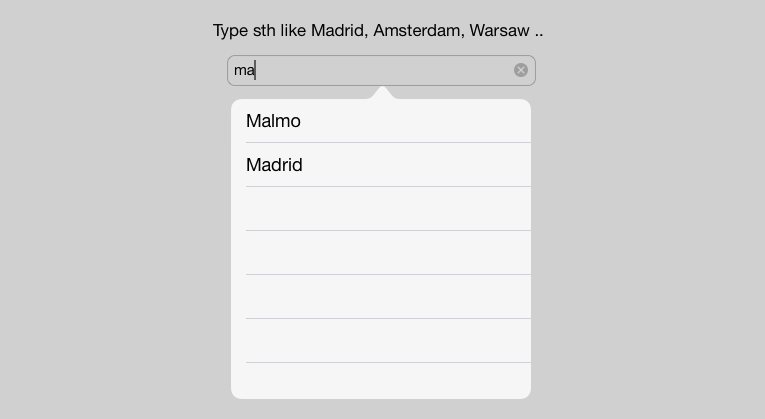
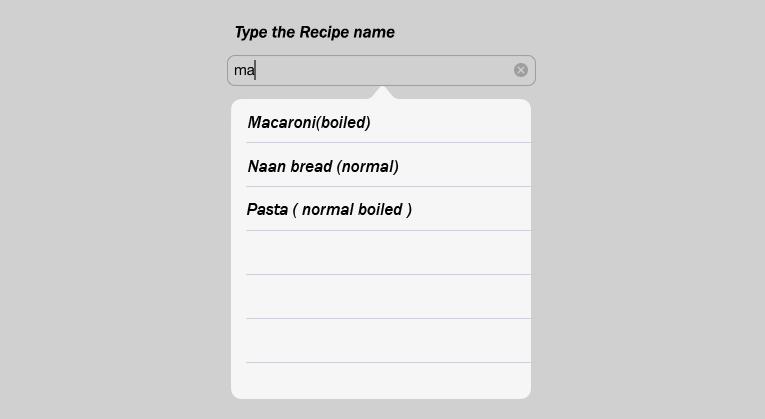
updated
updated

diff --git a/SuggestiveTextField-master/README.md b/SuggestiveTextField-master/README.md
@@ -1,11 +1,11 @@
-##SuggestiveTextField for iPad
+##SuggestiveTextField for IPhone,IPad
 
 
 * It's a `UITextfield` subclass that presents suggestions based on user input.
 * Suggestions are being displayes in a `UIPopoverController`.
 
 ```objective-c
-NSArray *suggestions = @[@"Warsaw",@"Paris",@"Zurich"];
+NSArray *suggestions = @[@"Bagel",@"Jaffa",@"Chapatis"];
 //Initialize with frame or from xib, doesn't matter.
 SuggestiveTextField *textField = [SuggestiveTextField alloc] initWithFrame:CGRectMake(0,0,100,30)];
 //Remember to set suggestions.
@@ -15,11 +15,5 @@ SuggestiveTextField *textField = [SuggestiveTextField alloc] initWithFrame:CGRec
 textField.shouldHideOnSelection = NO; //default is YES
 [textField setPopoverSize:CGSizeMake(100,100)];
 ```
- 
 ![screenshot](https://github.com/tetek/SuggestiveTextField/blob/master/screenshot.png?raw=true "Screenshot")
 
-Simply copy SuggestiveTextField class to your project and use as in ViewController.h example.
-
-
-###License
-The code is licensed under [WTFPL](http://en.wikipedia.org/wiki/WTFPL)
